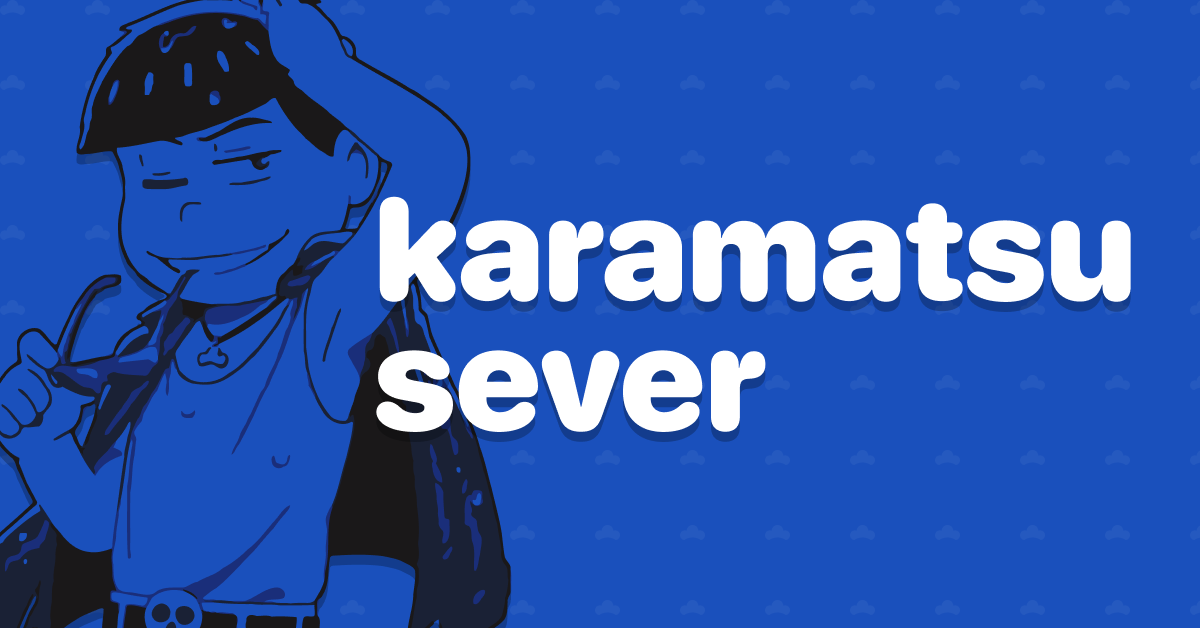
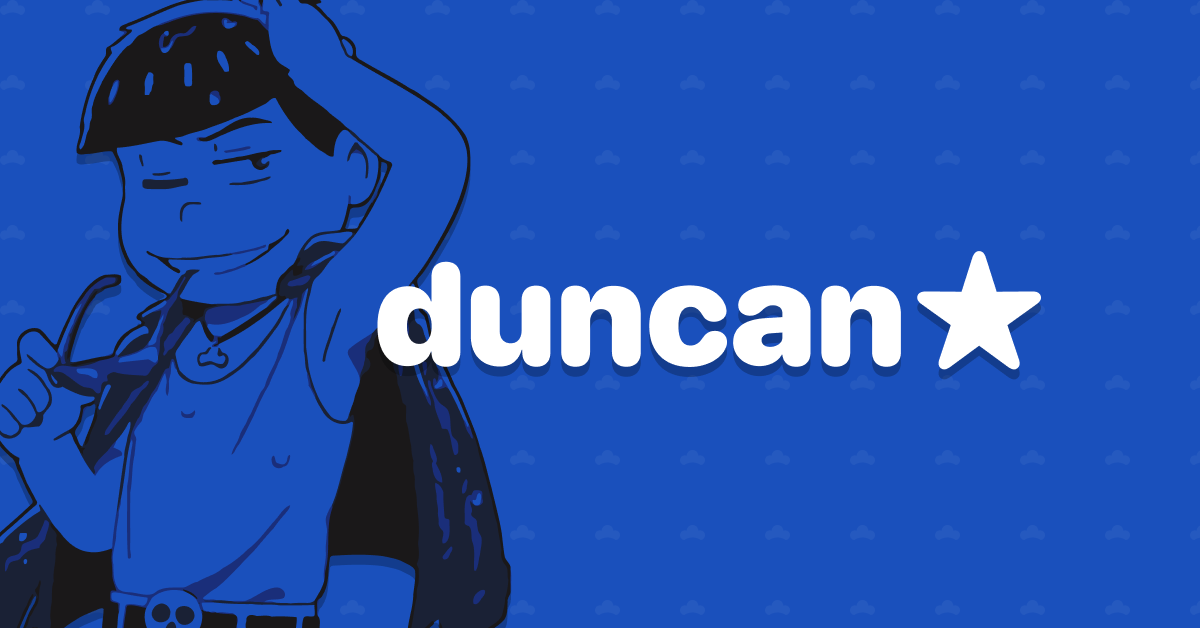
Update name and bio

Changed region(s): [[0.3083, 0.3025, 0.9558, 0.7261]]

diff --git a/index.html b/index.html
@@ -3,8 +3,8 @@
 
 <head>
 	<title>Karamatsu Sever</title>
-	<meta name="title" content="Karamatsu Sever">
-	<meta name="description" content="Karamatsu fan.">
+	<meta name="title" content="Duncan">
+	<meta name="description" content="My Matsu-themed about-me page">
 	<meta charset="UTF-8">
 	<meta http-equiv="X-UA-Compatible" content="IE=edge">
 	<meta name="viewport" content="width=device-width, initial-scale=1.0">
@@ -20,12 +20,12 @@
 	<meta name="msapplication-TileColor" content="#1A50BC">
 	<meta name="theme-color" content="#1A50BC">
 	<meta property="og:type" content="website">
-	<meta property="og:title" content="Karamatsu Sever">
-	<meta property="og:description" content="Karamatsu fan.">
+	<meta property="og:title" content="Duncan">
+	<meta property="og:description" content="My Matsu-themed about-me page">
 	<meta property="og:image" content="https://karamatsusever.github.io/assets/brand/social-image.png">
 	<meta property="twitter:card" content="summary_large_image">
-	<meta property="twitter:title" content="Karamatsu Sever">
-	<meta property="twitter:description" content="Karamatsu fan.">
+	<meta property="twitter:title" content="Duncan">
+	<meta property="twitter:description" content="My Matsu-themed about-me page">
 	<meta property="twitter:image" content="https://karamatsusever.github.io/assets/brand/social-image.png">
 </head>
 
@@ -34,13 +34,12 @@
 		<div class="container">
 			<img src="./assets/karamatsu.svg" alt="Karamatsu" class="karamatsu">
 			<div class="text">
-				<div class="title">karamatsu sever</div>
+				<div class="title">duncan</div>
 				<div class="bio">
-					Hello! I’m Karamatsu Sever (meaning “Karamatsu lover”).
-					I&nbsp;enjoy the anime series Osomatsu-san.
-					Nice to meet you!!<br />
+					Hello! I’m Duncan. I’m just a guy enjoying things.
+					I mainly enjoy Osomatsu-san and its fanart.<br />
 					<br />
-					✦ 20 years old<br />
+					✦ 21 years old<br />
 					✦ Male (he/him) <img src="./assets/flag-lgbtq.svg" alt="LGBTQ+" class="flag"> <img
 						src="./assets/flag-gay-male.svg" alt="Gay male" class="flag"><br />
 					✦ Trilingual <img src="./assets/flag-gb.svg" alt="English" class="flag"> <img
@@ -51,12 +50,21 @@
 					✦ Platonic, BLmatsu and Selfship
 				</div>
 				<div class="buttons">
-					<a href="javascript:void(0)" class="btn" id="fav-pairings-btn">
+					<a href="javascript:void(0)" class="btn"
+						onclick="document.querySelector('section.faves').scrollIntoView({behavior: 'smooth'})">
 						<img src="./assets/icon-people.svg" alt=""><span>My favourite pairings</span>
 					</a>
 
-					<a href="https://twitter.com/karamatsusever" target="_blank" class="btn single right"><img
-							src="./assets/icon-twitter.svg" alt=""></a>
+					<a href="https://twitter.com/duncannah" class="btn right">
+						<span>Main</span><img src="./assets/icon-twitter.svg" alt="">
+					</a>
+
+					<a href="https://twitter.com/karamatsusever" class="btn right">
+						<span>BLmatsu</span><img src="./assets/icon-twitter.svg" alt="">
+					</a>
+
+					<!-- <a href="https://twitter.com/karamatsusever" target="_blank" class="btn single right"><img
+							src="./assets/icon-twitter.svg" alt=""></a> -->
 				</div>
 			</div>
 		</div>
@@ -97,13 +105,6 @@
 				<div class="pair divider"><img src="./assets/pair-divider.svg" /></div>
 			</div>
 	</section>
-	<script>
-		document.getElementById("fav-pairings-btn").addEventListener("click", () =>
-			document.querySelector("section.faves").scrollIntoView({
-				behavior: 'smooth'
-			})
-		);
-	</script>
 </body>
 
 </html>

diff --git a/assets/style-index.css b/assets/style-index.css
@@ -1,6 +1,6 @@
 @font-face {
-	font-family: 'SFRounded-Black';
-	src: url('SFRounded-Black.woff2') format('woff2');
+	font-family: "SFRounded-Black";
+	src: url("SFRounded-Black.woff2") format("woff2");
 	font-weight: normal;
 	font-style: normal;
 	font-display: block;
@@ -72,7 +72,7 @@ section.home .text {
 }
 
 section.home .title {
-	font-family: 'SFRounded-Black', sans-serif;
+	font-family: "SFRounded-Black", sans-serif;
 	font-size: 96px;
 	line-height: 90%;
 	text-shadow: 0 10px rgba(0, 0, 0, 0.25);
@@ -96,6 +96,7 @@ section.home .bio {
 	padding: 5px 15px;
 	border-radius: 35px;
 	box-shadow: 0 6px rgba(0, 0, 0, 0.25);
+	margin-bottom: 16px;
 }
 
 .btn img {
@@ -110,9 +111,10 @@ section.home .bio {
 
 .btn.right {
 	float: right;
+	text-align: right;
 }
 
-.btn img + span {
+.btn > span {
 	margin: 15px;
 }
 
@@ -172,7 +174,7 @@ section.faves .container {
 }
 
 section.faves .title {
-	font-family: 'SFRounded-Black', sans-serif;
+	font-family: "SFRounded-Black", sans-serif;
 	font-size: 72px;
 	text-align: center;
 }
